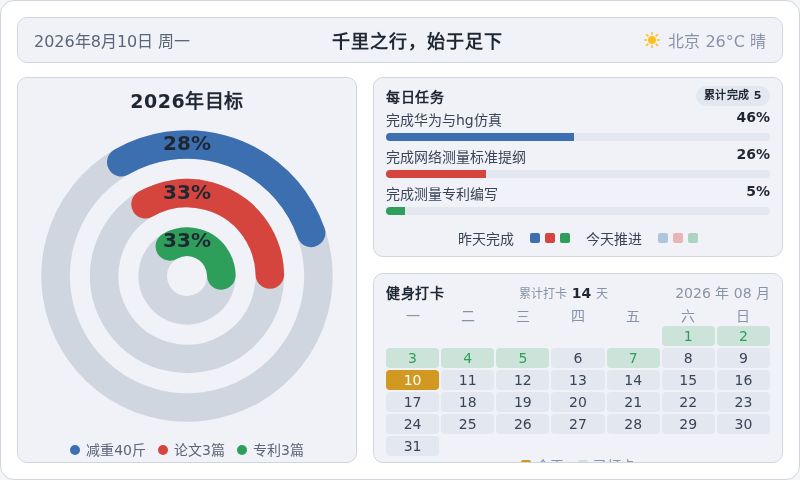
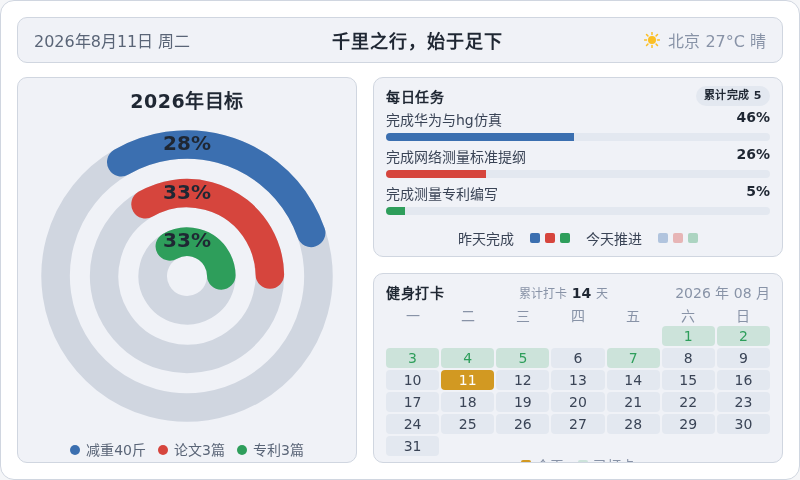
chore: 每日看板刷新 2026-08-11

diff --git a/output/dashboard.html b/output/dashboard.html
@@ -185,11 +185,11 @@
 <body>
   <div class="dash">
     <div class="topbar">
-      <div class="tb-date" id="tbDate">2026年8月10日 周一</div>
+      <div class="tb-date" id="tbDate">2026年8月11日 周二</div>
       <div class="tb-slogan">千里之行，始于足下</div>
       <div class="tb-weather">
         <svg width="16" height="16" viewBox="0 0 16 16" aria-hidden="true"><circle cx="8" cy="8" r="4" fill="#fbbf24"/><g stroke="#fbbf24" stroke-width="1.5" stroke-linecap="round"><line x1="8" y1="0.5" x2="8" y2="2.5"/><line x1="8" y1="13.5" x2="8" y2="15.5"/><line x1="0.5" y1="8" x2="2.5" y2="8"/><line x1="13.5" y1="8" x2="15.5" y2="8"/><line x1="2.5" y1="2.5" x2="3.9" y2="3.9"/><line x1="12.1" y1="12.1" x2="13.5" y2="13.5"/><line x1="13.5" y1="2.5" x2="12.1" y2="3.9"/><line x1="3.9" y1="12.1" x2="2.5" y2="13.5"/></g></svg>
-        <span>北京 26°C 晴</span>
+        <span>北京 27°C 晴</span>
       </div>
     </div>
     <div class="content">
@@ -248,7 +248,7 @@
           <span class="cal-date">2026 年 08 月</span>
         </div>
         <div class="cal-grid wk"><span>一</span><span>二</span><span>三</span><span>四</span><span>五</span><span>六</span><span>日</span></div>
-        <div class="cal-grid"><span class="cell empty"></span><span class="cell empty"></span><span class="cell empty"></span><span class="cell empty"></span><span class="cell empty"></span><span class="cell done" style="background:rgba(46,158,91,0.18);color:#2e9e5b">1</span><span class="cell done" style="background:rgba(46,158,91,0.18);color:#2e9e5b">2</span><span class="cell done" style="background:rgba(46,158,91,0.18);color:#2e9e5b">3</span><span class="cell done" style="background:rgba(46,158,91,0.18);color:#2e9e5b">4</span><span class="cell done" style="background:rgba(46,158,91,0.18);color:#2e9e5b">5</span><span class="cell" style="background:#e3e8f0;color:#3a4456">6</span><span class="cell done" style="background:rgba(46,158,91,0.18);color:#2e9e5b">7</span><span class="cell" style="background:#e3e8f0;color:#3a4456">8</span><span class="cell" style="background:#e3e8f0;color:#3a4456">9</span><span class="cell today" style="background:#d29922;color:#ffffff">10</span><span class="cell" style="background:#e3e8f0;color:#3a4456">11</span><span class="cell" style="background:#e3e8f0;color:#3a4456">12</span><span class="cell" style="background:#e3e8f0;color:#3a4456">13</span><span class="cell" style="background:#e3e8f0;color:#3a4456">14</span><span class="cell" style="background:#e3e8f0;color:#3a4456">15</span><span class="cell" style="background:#e3e8f0;color:#3a4456">16</span><span class="cell" style="background:#e3e8f0;color:#3a4456">17</span><span class="cell" style="background:#e3e8f0;color:#3a4456">18</span><span class="cell" style="background:#e3e8f0;color:#3a4456">19</span><span class="cell" style="background:#e3e8f0;color:#3a4456">20</span><span class="cell" style="background:#e3e8f0;color:#3a4456">21</span><span class="cell" style="background:#e3e8f0;color:#3a4456">22</span><span class="cell" style="background:#e3e8f0;color:#3a4456">23</span><span class="cell" style="background:#e3e8f0;color:#3a4456">24</span><span class="cell" style="background:#e3e8f0;color:#3a4456">25</span><span class="cell" style="background:#e3e8f0;color:#3a4456">26</span><span class="cell" style="background:#e3e8f0;color:#3a4456">27</span><span class="cell" style="background:#e3e8f0;color:#3a4456">28</span><span class="cell" style="background:#e3e8f0;color:#3a4456">29</span><span class="cell" style="background:#e3e8f0;color:#3a4456">30</span><span class="cell" style="background:#e3e8f0;color:#3a4456">31</span></div>
+        <div class="cal-grid"><span class="cell empty"></span><span class="cell empty"></span><span class="cell empty"></span><span class="cell empty"></span><span class="cell empty"></span><span class="cell done" style="background:rgba(46,158,91,0.18);color:#2e9e5b">1</span><span class="cell done" style="background:rgba(46,158,91,0.18);color:#2e9e5b">2</span><span class="cell done" style="background:rgba(46,158,91,0.18);color:#2e9e5b">3</span><span class="cell done" style="background:rgba(46,158,91,0.18);color:#2e9e5b">4</span><span class="cell done" style="background:rgba(46,158,91,0.18);color:#2e9e5b">5</span><span class="cell" style="background:#e3e8f0;color:#3a4456">6</span><span class="cell done" style="background:rgba(46,158,91,0.18);color:#2e9e5b">7</span><span class="cell" style="background:#e3e8f0;color:#3a4456">8</span><span class="cell" style="background:#e3e8f0;color:#3a4456">9</span><span class="cell" style="background:#e3e8f0;color:#3a4456">10</span><span class="cell today" style="background:#d29922;color:#ffffff">11</span><span class="cell" style="background:#e3e8f0;color:#3a4456">12</span><span class="cell" style="background:#e3e8f0;color:#3a4456">13</span><span class="cell" style="background:#e3e8f0;color:#3a4456">14</span><span class="cell" style="background:#e3e8f0;color:#3a4456">15</span><span class="cell" style="background:#e3e8f0;color:#3a4456">16</span><span class="cell" style="background:#e3e8f0;color:#3a4456">17</span><span class="cell" style="background:#e3e8f0;color:#3a4456">18</span><span class="cell" style="background:#e3e8f0;color:#3a4456">19</span><span class="cell" style="background:#e3e8f0;color:#3a4456">20</span><span class="cell" style="background:#e3e8f0;color:#3a4456">21</span><span class="cell" style="background:#e3e8f0;color:#3a4456">22</span><span class="cell" style="background:#e3e8f0;color:#3a4456">23</span><span class="cell" style="background:#e3e8f0;color:#3a4456">24</span><span class="cell" style="background:#e3e8f0;color:#3a4456">25</span><span class="cell" style="background:#e3e8f0;color:#3a4456">26</span><span class="cell" style="background:#e3e8f0;color:#3a4456">27</span><span class="cell" style="background:#e3e8f0;color:#3a4456">28</span><span class="cell" style="background:#e3e8f0;color:#3a4456">29</span><span class="cell" style="background:#e3e8f0;color:#3a4456">30</span><span class="cell" style="background:#e3e8f0;color:#3a4456">31</span></div>
         <div class="cal-legend">
           <span style="color:#8893a7"><i class="sw" style="background:#d29922"></i>今天</span>
           <span style="color:#8893a7"><i class="sw" style="background:rgba(46,158,91,0.18)"></i>已打卡</span>
